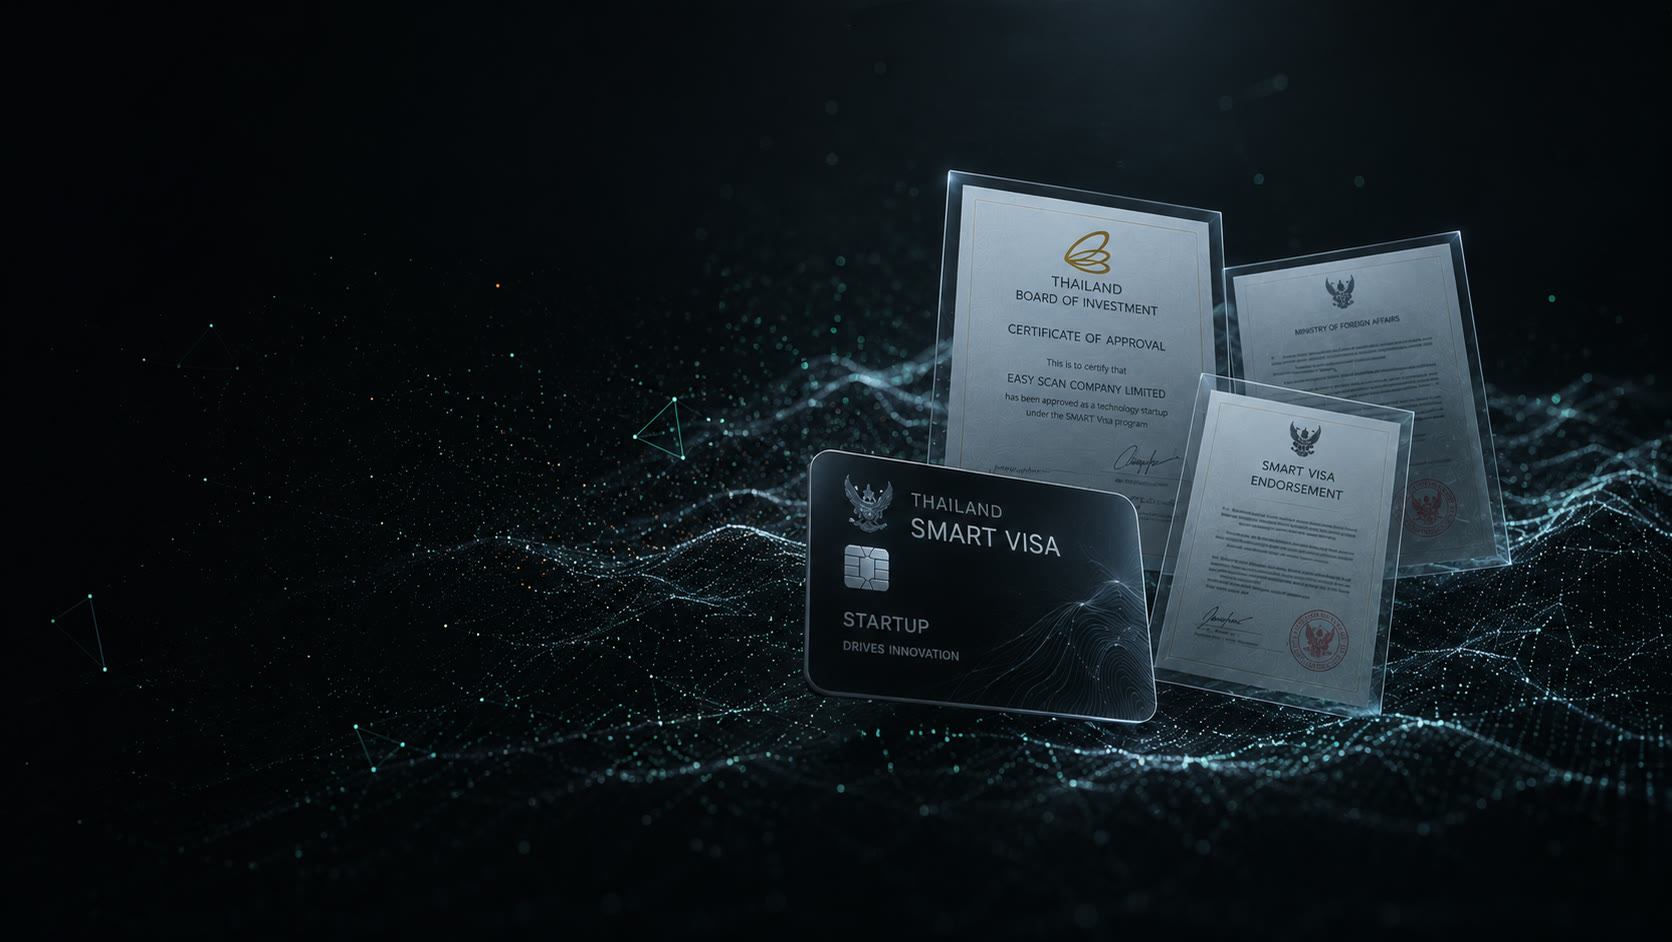
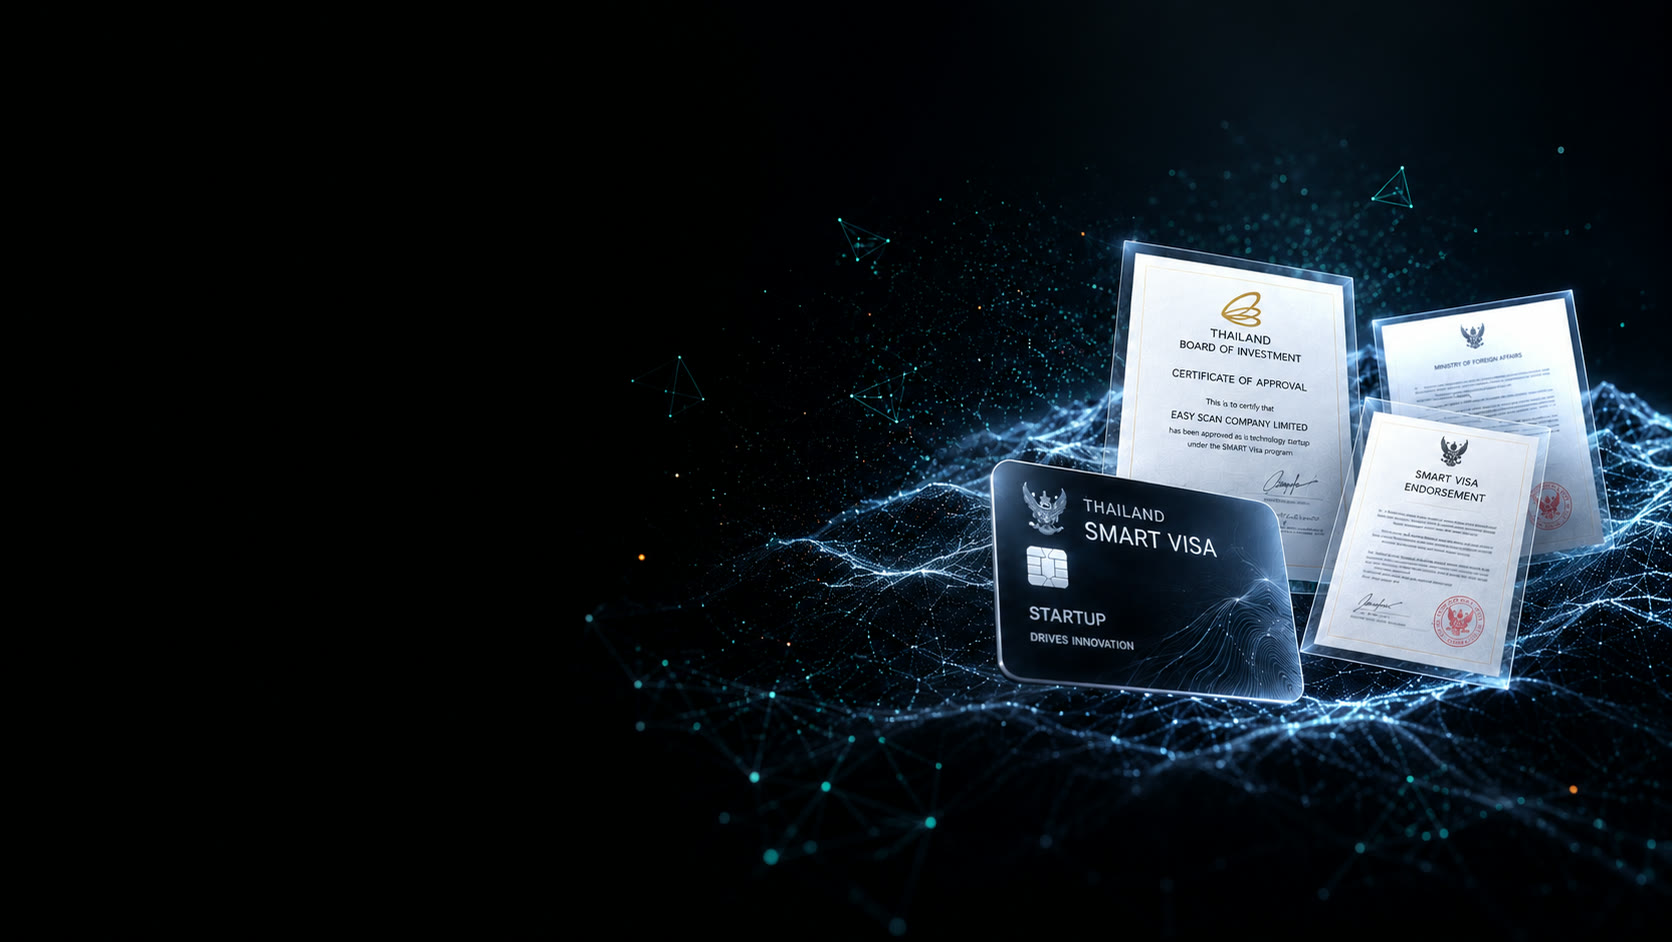
About SMART Visa: new backdrop (smart_alt -> smart-back.jpg, 183KB); v=84
Cleaner left half (pure black) behind the text; ?v=84 cache-buster.
Raw smart_alt.png gitignored.

diff --git a/th/about.html b/th/about.html
@@ -7,8 +7,8 @@
 <meta name="description" content="EASY SCAN คือบริษัทเทคโนโลยีในประเทศไทย เชี่ยวชาญการสแกนด้วย LiDAR การทำแผนที่ด้วยโดรน และการสร้างภาพ 3 มิติ ช่วยให้สถาปนิกและนักพัฒนาเข้าใจที่ดินก่อนลงมือก่อสร้าง">
 <link rel="icon" href="../assets/img/logo-mark-white.png">
 <script>document.documentElement.className+=" js";</script>
-<link rel="stylesheet" href="../design-system/styles.css?v=83">
-<link rel="stylesheet" href="../assets/css/style.css?v=83">
+<link rel="stylesheet" href="../design-system/styles.css?v=84">
+<link rel="stylesheet" href="../assets/css/style.css?v=84">
 </head>
 <body>
 <a class="skip-link" href="#main">ข้ามไปยังเนื้อหา</a>
@@ -92,7 +92,7 @@
   </section>
 
   <section class="section why smart-visa">
-    <div class="why__bg" aria-hidden="true"><img src="../assets/img/smart-back.jpg?v=83" alt="" loading="lazy"></div>
+    <div class="why__bg" aria-hidden="true"><img src="../assets/img/smart-back.jpg?v=84" alt="" loading="lazy"></div>
     <div class="wrap">
       <div class="section__head section__head--wide reveal">
         <p class="eyebrow">SMART Visa</p>
@@ -112,21 +112,21 @@
       </div>
       <div class="team reveal">
         <figure class="team-member">
-          <img class="team-member__photo" src="../assets/img/team-andrey.jpg?v=83" alt="Andrey Netovanniy" width="300" height="300">
+          <img class="team-member__photo" src="../assets/img/team-andrey.jpg?v=84" alt="Andrey Netovanniy" width="300" height="300">
           <figcaption class="team-member__body">
             <span class="team-member__role">ผู้ก่อตั้งและซีอีโอ · กรรมการผู้จัดการ</span>
             <span class="team-member__name">Andrey Netovanniy</span>
           </figcaption>
         </figure>
         <figure class="team-member">
-          <img class="team-member__photo" src="../assets/img/team-aleksandra.jpg?v=83" alt="Aleksandra Gorokhova" width="300" height="300">
+          <img class="team-member__photo" src="../assets/img/team-aleksandra.jpg?v=84" alt="Aleksandra Gorokhova" width="300" height="300">
           <figcaption class="team-member__body">
             <span class="team-member__role">ผู้ร่วมก่อตั้งและประธานเจ้าหน้าที่ฝ่ายพาณิชย์</span>
             <span class="team-member__name">Aleksandra Gorokhova</span>
           </figcaption>
         </figure>
         <figure class="team-member">
-          <img class="team-member__photo" src="../assets/img/team-pavel.jpg?v=83" alt="Pavel Andreev" width="300" height="300">
+          <img class="team-member__photo" src="../assets/img/team-pavel.jpg?v=84" alt="Pavel Andreev" width="300" height="300">
           <figcaption class="team-member__body">
             <span class="team-member__role">ผู้ร่วมก่อตั้งและผู้อำนวยการฝ่ายขาย</span>
             <span class="team-member__name">Pavel Andreev</span>
@@ -173,6 +173,6 @@
     </div>
   </div>
 </footer>
-<script src="../assets/js/main.js?v=83"></script>
+<script src="../assets/js/main.js?v=84"></script>
 </body>
 </html>

diff --git a/about.html b/about.html
@@ -7,8 +7,8 @@
 <meta name="description" content="EASY SCAN is a Thailand-based technology company specialising in LiDAR scanning, drone mapping and 3D visualisation — helping architects and developers understand land before building.">
 <link rel="icon" href="assets/img/logo-mark-white.png">
 <script>document.documentElement.className+=" js";</script>
-<link rel="stylesheet" href="design-system/styles.css?v=83">
-<link rel="stylesheet" href="assets/css/style.css?v=83">
+<link rel="stylesheet" href="design-system/styles.css?v=84">
+<link rel="stylesheet" href="assets/css/style.css?v=84">
 </head>
 <body>
 <a class="skip-link" href="#main">Skip to content</a>
@@ -92,7 +92,7 @@
   </section>
 
   <section class="section why smart-visa">
-    <div class="why__bg" aria-hidden="true"><img src="assets/img/smart-back.jpg?v=83" alt="" loading="lazy"></div>
+    <div class="why__bg" aria-hidden="true"><img src="assets/img/smart-back.jpg?v=84" alt="" loading="lazy"></div>
     <div class="wrap">
       <div class="section__head section__head--wide reveal">
         <p class="eyebrow">SMART Visa</p>
@@ -112,21 +112,21 @@
       </div>
       <div class="team reveal">
         <figure class="team-member">
-          <img class="team-member__photo" src="assets/img/team-andrey.jpg?v=83" alt="Andrey Netovanniy" width="300" height="300">
+          <img class="team-member__photo" src="assets/img/team-andrey.jpg?v=84" alt="Andrey Netovanniy" width="300" height="300">
           <figcaption class="team-member__body">
             <span class="team-member__role">Founder &amp; CEO · Managing Director</span>
             <span class="team-member__name">Andrey Netovanniy</span>
           </figcaption>
         </figure>
         <figure class="team-member">
-          <img class="team-member__photo" src="assets/img/team-aleksandra.jpg?v=83" alt="Aleksandra Gorokhova" width="300" height="300">
+          <img class="team-member__photo" src="assets/img/team-aleksandra.jpg?v=84" alt="Aleksandra Gorokhova" width="300" height="300">
           <figcaption class="team-member__body">
             <span class="team-member__role">Co-Founder &amp; Chief Commercial Officer</span>
             <span class="team-member__name">Aleksandra Gorokhova</span>
           </figcaption>
         </figure>
         <figure class="team-member">
-          <img class="team-member__photo" src="assets/img/team-pavel.jpg?v=83" alt="Pavel Andreev" width="300" height="300">
+          <img class="team-member__photo" src="assets/img/team-pavel.jpg?v=84" alt="Pavel Andreev" width="300" height="300">
           <figcaption class="team-member__body">
             <span class="team-member__role">Co-Founder &amp; Sales Director</span>
             <span class="team-member__name">Pavel Andreev</span>
@@ -173,6 +173,6 @@
     </div>
   </div>
 </footer>
-<script src="assets/js/main.js?v=83"></script>
+<script src="assets/js/main.js?v=84"></script>
 </body>
 </html>

diff --git a/th/education.html b/th/education.html
@@ -7,8 +7,8 @@
 <meta name="description" content="เรียนรู้การสแกน LiDAR การทำแผนที่ด้วยโดรน และการวิเคราะห์ภูมิประเทศ 3 มิติ ผ่านเวิร์กช็อปและหลักสูตรอบรมของ EASY SCAN ในประเทศไทย">
 <link rel="icon" href="../assets/img/logo-mark-white.png">
 <script>document.documentElement.className+=" js";</script>
-<link rel="stylesheet" href="../design-system/styles.css?v=83">
-<link rel="stylesheet" href="../assets/css/style.css?v=83">
+<link rel="stylesheet" href="../design-system/styles.css?v=84">
+<link rel="stylesheet" href="../assets/css/style.css?v=84">
 </head>
 <body>
 <a class="skip-link" href="#main">ข้ามไปยังเนื้อหา</a>
@@ -55,7 +55,7 @@
 </nav>
 <main id="main">
   <section class="page-hero page-hero--full">
-    <div class="page-hero__media page-hero__media--light"><img src="../assets/img/education-back.jpg?v=83" alt="Classroom scene with a holographic land model and a hovering drone"></div>
+    <div class="page-hero__media page-hero__media--light"><img src="../assets/img/education-back.jpg?v=84" alt="Classroom scene with a holographic land model and a hovering drone"></div>
     <div class="wrap wrap--wide">
       <p class="breadcrumb"><a href="index.html">หน้าแรก</a><span>/</span> การอบรม</p>
       <h1 class="page-hero__title">หลักสูตร<br>อบรม</h1>
@@ -96,6 +96,6 @@
     </div>
   </div>
 </footer>
-<script src="../assets/js/main.js?v=83"></script>
+<script src="../assets/js/main.js?v=84"></script>
 </body>
 </html>

diff --git a/education.html b/education.html
@@ -7,8 +7,8 @@
 <meta name="description" content="Learn LiDAR scanning, drone mapping and 3D terrain analysis through EASY SCAN's workshops and training programs in Thailand.">
 <link rel="icon" href="assets/img/logo-mark-white.png">
 <script>document.documentElement.className+=" js";</script>
-<link rel="stylesheet" href="design-system/styles.css?v=83">
-<link rel="stylesheet" href="assets/css/style.css?v=83">
+<link rel="stylesheet" href="design-system/styles.css?v=84">
+<link rel="stylesheet" href="assets/css/style.css?v=84">
 </head>
 <body>
 <a class="skip-link" href="#main">Skip to content</a>
@@ -55,7 +55,7 @@
 </nav>
 <main id="main">
   <section class="page-hero page-hero--full">
-    <div class="page-hero__media page-hero__media--light"><img src="assets/img/education-back.jpg?v=83" alt="Classroom scene with a holographic land model and a hovering drone"></div>
+    <div class="page-hero__media page-hero__media--light"><img src="assets/img/education-back.jpg?v=84" alt="Classroom scene with a holographic land model and a hovering drone"></div>
     <div class="wrap wrap--wide">
       <p class="breadcrumb"><a href="index.html">Main</a><span>/</span> Education</p>
       <h1 class="page-hero__title">Education<br>program</h1>
@@ -96,6 +96,6 @@
     </div>
   </div>
 </footer>
-<script src="assets/js/main.js?v=83"></script>
+<script src="assets/js/main.js?v=84"></script>
 </body>
 </html>

diff --git a/th/index.html b/th/index.html
@@ -7,8 +7,8 @@
 <meta name="description" content="ข้อมูลที่ดินอัจฉริยะแบบดิจิทัลเพื่อการพัฒนาที่ชาญฉลาดขึ้น EASY SCAN ใช้ LiDAR และการทำแผนที่ด้วยโดรน เพื่อมอบแบบจำลองภูมิประเทศ 3 มิติที่แม่นยำแก่สถาปนิก นักพัฒนา และเจ้าของที่ดินในประเทศไทยก่อนเริ่มก่อสร้าง">
 <link rel="icon" href="../assets/img/logo-mark-white.png">
 <script>document.documentElement.className+=" js";</script>
-<link rel="stylesheet" href="../design-system/styles.css?v=83">
-<link rel="stylesheet" href="../assets/css/style.css?v=83">
+<link rel="stylesheet" href="../design-system/styles.css?v=84">
+<link rel="stylesheet" href="../assets/css/style.css?v=84">
 </head>
 <body>
 <a class="skip-link" href="#main">ข้ามไปยังเนื้อหา</a>
@@ -276,6 +276,6 @@
   </div>
 </footer>
 
-<script src="../assets/js/main.js?v=83"></script>
+<script src="../assets/js/main.js?v=84"></script>
 </body>
 </html>

diff --git a/th/twin.html b/th/twin.html
@@ -7,8 +7,8 @@
 <meta name="description" content="ดูว่าอาคารของคุณเข้ากับที่ดินอย่างไรด้วยดิจิทัลทวินของ EASY SCAN — แบบจำลองภูมิประเทศ 3 มิติที่แม่นยำ ผสาน LiDAR การทำแผนที่ด้วยโดรน Gaussian Splatting และโฟโตแกรมเมทรี">
 <link rel="icon" href="../assets/img/logo-mark-white.png">
 <script>document.documentElement.className+=" js";</script>
-<link rel="stylesheet" href="../design-system/styles.css?v=83">
-<link rel="stylesheet" href="../assets/css/style.css?v=83">
+<link rel="stylesheet" href="../design-system/styles.css?v=84">
+<link rel="stylesheet" href="../assets/css/style.css?v=84">
 </head>
 <body>
 <a class="skip-link" href="#main">ข้ามไปยังเนื้อหา</a>
@@ -134,6 +134,6 @@
     </div>
   </div>
 </footer>
-<script src="../assets/js/main.js?v=83"></script>
+<script src="../assets/js/main.js?v=84"></script>
 </body>
 </html>

diff --git a/th/contact.html b/th/contact.html
@@ -7,8 +7,8 @@
 <meta name="description" content="ติดต่อ EASY SCAN สำหรับงานสำรวจด้วย LiDAR การทำแผนที่ด้วยโดรน และการสร้างภาพภูมิประเทศ 3 มิติ บนเกาะพะงัน เกาะสมุย และภูเก็ต เราตอบกลับภายใน 24 ชั่วโมง">
 <link rel="icon" href="../assets/img/logo-mark-white.png">
 <script>document.documentElement.className+=" js";</script>
-<link rel="stylesheet" href="../design-system/styles.css?v=83">
-<link rel="stylesheet" href="../assets/css/style.css?v=83">
+<link rel="stylesheet" href="../design-system/styles.css?v=84">
+<link rel="stylesheet" href="../assets/css/style.css?v=84">
 </head>
 <body>
 <a class="skip-link" href="#main">ข้ามไปยังเนื้อหา</a>
@@ -138,6 +138,6 @@
     </div>
   </div>
 </footer>
-<script src="../assets/js/main.js?v=83"></script>
+<script src="../assets/js/main.js?v=84"></script>
 </body>
 </html>

diff --git a/th/monitoring.html b/th/monitoring.html
@@ -7,8 +7,8 @@
 <meta name="description" content="ติดตามความคืบหน้างานก่อสร้างด้วยการสแกน LiDAR 3 มิติ EASY SCAN บันทึกงานดิน งานระบบที่ซ่อนอยู่ และการเปลี่ยนแปลงของไซต์ตลอดการก่อสร้างในประเทศไทย">
 <link rel="icon" href="../assets/img/logo-mark-white.png">
 <script>document.documentElement.className+=" js";</script>
-<link rel="stylesheet" href="../design-system/styles.css?v=83">
-<link rel="stylesheet" href="../assets/css/style.css?v=83">
+<link rel="stylesheet" href="../design-system/styles.css?v=84">
+<link rel="stylesheet" href="../assets/css/style.css?v=84">
 </head>
 <body>
 <a class="skip-link" href="#main">ข้ามไปยังเนื้อหา</a>
@@ -119,6 +119,6 @@
     </div>
   </div>
 </footer>
-<script src="../assets/js/main.js?v=83"></script>
+<script src="../assets/js/main.js?v=84"></script>
 </body>
 </html>

diff --git a/th/concepting.html b/th/concepting.html
@@ -7,8 +7,8 @@
 <meta name="description" content="สแกนที่ดินของคุณด้วย LiDAR และโดรน แล้วทดสอบแนวคิดทางสถาปัตยกรรมบนภูมิประเทศจริงก่อนก่อสร้าง — บริการทดสอบแนวคิดของ EASY SCAN ในประเทศไทย">
 <link rel="icon" href="../assets/img/logo-mark-white.png">
 <script>document.documentElement.className+=" js";</script>
-<link rel="stylesheet" href="../design-system/styles.css?v=83">
-<link rel="stylesheet" href="../assets/css/style.css?v=83">
+<link rel="stylesheet" href="../design-system/styles.css?v=84">
+<link rel="stylesheet" href="../assets/css/style.css?v=84">
 </head>
 <body>
 <a class="skip-link" href="#main">ข้ามไปยังเนื้อหา</a>
@@ -120,6 +120,6 @@
     </div>
   </div>
 </footer>
-<script src="../assets/js/main.js?v=83"></script>
+<script src="../assets/js/main.js?v=84"></script>
 </body>
 </html>

diff --git a/th/museum.html b/th/museum.html
@@ -7,8 +7,8 @@
 <meta name="description" content="พิพิธภัณฑ์ดิจิทัลของ EASY SCAN ใช้การสแกน 3 มิติเพื่ออนุรักษ์และนำเสนอวัตถุทางวัฒนธรรมและแหล่งมรดกผ่านประสบการณ์ดิจิทัลแบบสมจริง">
 <link rel="icon" href="../assets/img/logo-mark-white.png">
 <script>document.documentElement.className+=" js";</script>
-<link rel="stylesheet" href="../design-system/styles.css?v=83">
-<link rel="stylesheet" href="../assets/css/style.css?v=83">
+<link rel="stylesheet" href="../design-system/styles.css?v=84">
+<link rel="stylesheet" href="../assets/css/style.css?v=84">
 </head>
 <body>
 <a class="skip-link" href="#main">ข้ามไปยังเนื้อหา</a>
@@ -127,6 +127,6 @@
     </div>
   </div>
 </footer>
-<script src="../assets/js/main.js?v=83"></script>
+<script src="../assets/js/main.js?v=84"></script>
 </body>
 </html>

diff --git a/th/gaussian.html b/th/gaussian.html
@@ -7,8 +7,8 @@
 <meta name="description" content="EASY SCAN สร้างสถานที่จริงขึ้นใหม่ด้วย Gaussian Splatting — ฉาก 3 มิติเสมือนจริงที่สำรวจได้โดยตรงในเว็บเบราว์เซอร์">
 <link rel="icon" href="../assets/img/logo-mark-white.png">
 <script>document.documentElement.className+=" js";</script>
-<link rel="stylesheet" href="../design-system/styles.css?v=83">
-<link rel="stylesheet" href="../assets/css/style.css?v=83">
+<link rel="stylesheet" href="../design-system/styles.css?v=84">
+<link rel="stylesheet" href="../assets/css/style.css?v=84">
 </head>
 <body>
 <a class="skip-link" href="#main">ข้ามไปยังเนื้อหา</a>
@@ -167,6 +167,6 @@
     </div>
   </div>
 </footer>
-<script src="../assets/js/main.js?v=83"></script>
+<script src="../assets/js/main.js?v=84"></script>
 </body>
 </html>

diff --git a/index.html b/index.html
@@ -7,8 +7,8 @@
 <meta name="description" content="Digital land intelligence for smarter development. EASY SCAN uses LiDAR and drone mapping to give architects, developers and landowners in Thailand accurate 3D terrain models before construction begins.">
 <link rel="icon" href="assets/img/logo-mark-white.png">
 <script>document.documentElement.className+=" js";</script>
-<link rel="stylesheet" href="design-system/styles.css?v=83">
-<link rel="stylesheet" href="assets/css/style.css?v=83">
+<link rel="stylesheet" href="design-system/styles.css?v=84">
+<link rel="stylesheet" href="assets/css/style.css?v=84">
 </head>
 <body>
 <a class="skip-link" href="#main">Skip to content</a>
@@ -276,6 +276,6 @@
   </div>
 </footer>
 
-<script src="assets/js/main.js?v=83"></script>
+<script src="assets/js/main.js?v=84"></script>
 </body>
 </html>
